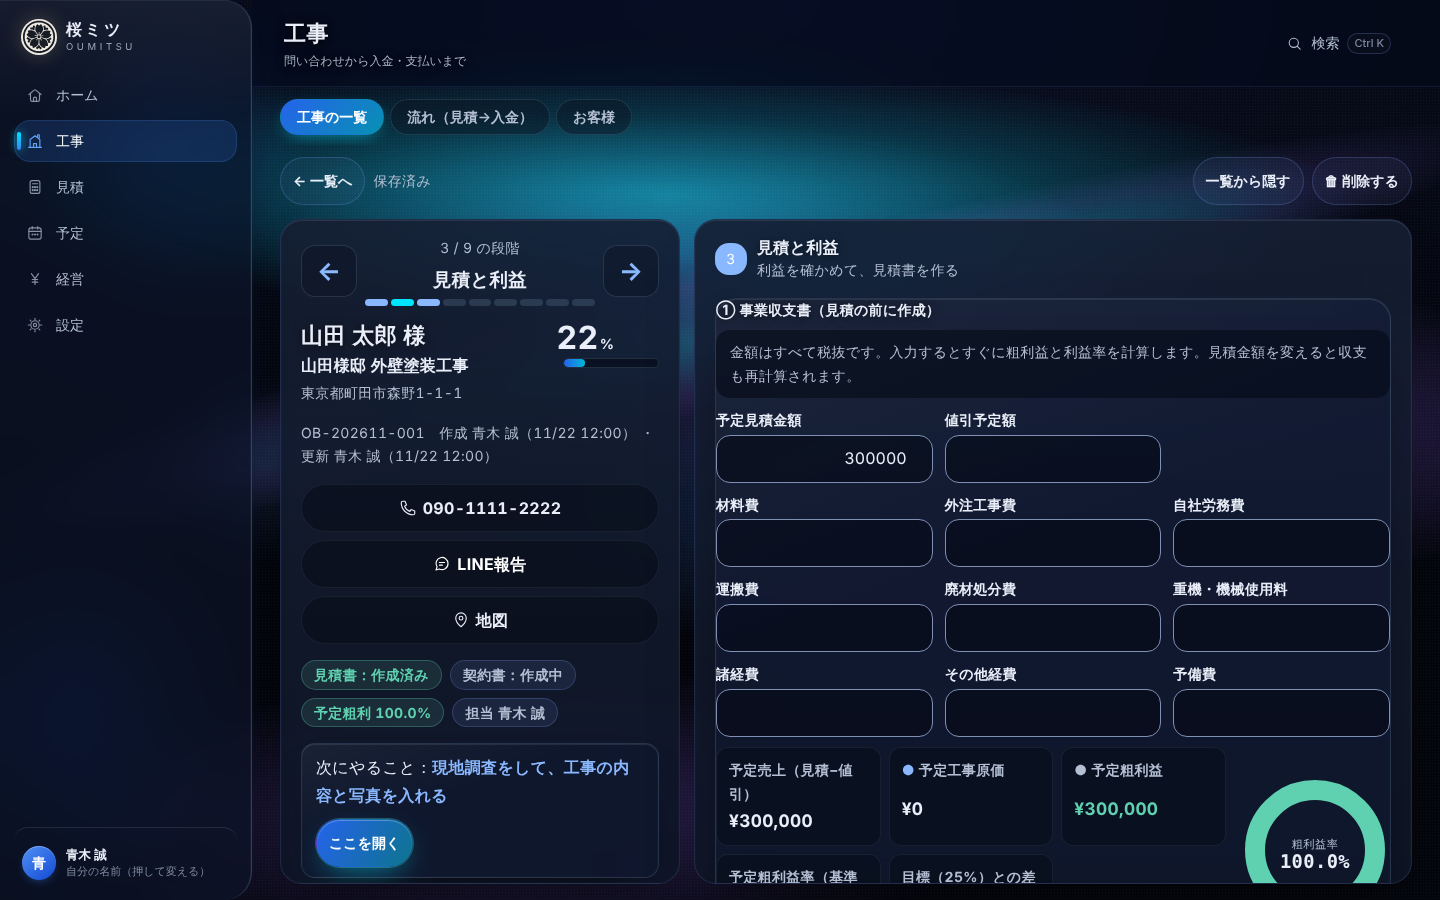
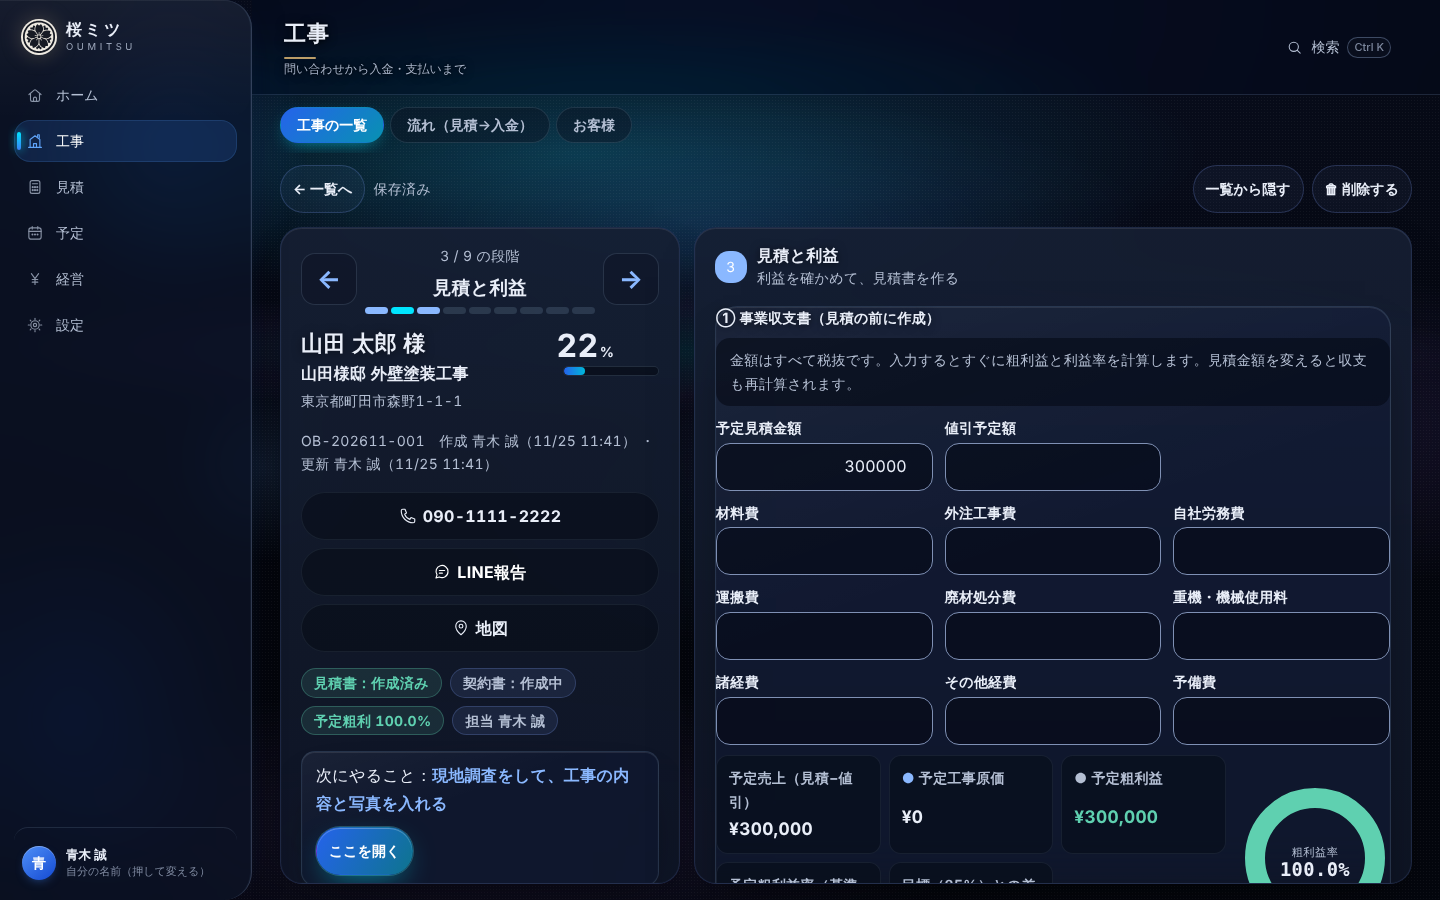
見た目を落ち着いた紺に（「桜ミツ 見せる用」を参考に）
- 背景の光を弱くして止める。線を少し濃くして面の境目をはっきり
- 主なボタンは青1色（虹色の流れ・光の影をやめる）。枠の中のボタンも同じ
- 画面の名前は明朝、下に金の短い線（会社の印）。高さは増やさず1画面に収めたまま

Claude-Session: https://claude.ai/code/session_011YfgaKNg5BLHuBJZ1Hhi4R

diff --git a/oubi/web.css b/oubi/web.css
@@ -238,3 +238,20 @@ body.ee-link .widgets.editing .widget { transition: transform .15s cubic-bezier(
 body.ee-link .widgets.editing .widget.dragging { opacity: .9; transform: scale(1.02); box-shadow: 0 24px 50px -20px rgba(0, 0, 0, .8), 0 0 0 1px rgba(0, 229, 255, .4); }
 /* ホーム：押せるパネル・タイルは、乗せると少し浮いて縁に淡い光、押すと沈む（コントロールセンターのタイル） */
 body.ee-link .launch-tile:active, body.ee-link .w-kpi:active, body.ee-link .w-item:active { transform: scale(.98); }
+
+/* ===== 落ち着いた紺（2026-11-25：「桜ミツ 見せる用」を参考に） =====
+   ・背景の光は弱くして止める（面がはっきり見え、画面が静かになる）
+   ・線は少し濃く（面の境目が分かる）。主なボタンは青1色（虹色の流れ・光の影はやめる）
+   ・画面の名前は明朝で、下に金の短い線（会社の印。色の飾りはここだけ） */
+body.ee-link .aurora i { opacity: .3 !important; animation: none !important; }
+body.ee-link { --line: rgba(163, 192, 235, .16); --line-hi: rgba(170, 200, 245, .32); }
+body.ee-link .btn.primary, body.ee-link .btn.primary:hover {
+  background: #2a63c9 !important; background-image: none !important; border-color: transparent !important;
+  box-shadow: 0 2px 10px rgba(42, 99, 201, .28) !important; color: #fff !important; }
+body.ee-link .btn.primary:hover { background: #3170dc !important; }
+body.ee-link .btn:hover { box-shadow: none; }
+body.ee-link #title { font-family: "Hiragino Mincho ProN", "Hiragino Mincho Pro", "Yu Mincho", "YuMincho", "Noto Serif JP", "Noto Serif CJK JP", serif; letter-spacing: .04em; }
+body.ee-link #title { position: relative; }
+body.ee-link #crumb { margin-top: 6px; }
+body.ee-link #title::after { content: ""; position: absolute; left: 0; bottom: -4px; width: 32px; height: 2px; border-radius: 2px; background: #bfa06a; }   /* 高さは増やさない（1画面に収める） */
+body.ee-link .launch-tile.lt-main { box-shadow: 0 0 0 1px rgba(77, 141, 255, .28) inset; border-color: rgba(77, 141, 255, .45); }

diff --git a/oubi/embed.css b/oubi/embed.css
@@ -161,3 +161,9 @@ button:active:not(:disabled), .btn:active, .chipbtn:active, .sl-mini:active { tr
 .done-t { white-space: nowrap; }
 nav button, nav .btn, .tabs button { overflow: visible !important; }
 }
+
+/* ===== 落ち着いた紺（2026-11-25：「桜ミツ 見せる用」を参考に）：主なボタンは青1色、押せる物の光の影はやめる ===== */
+.btn.pri, .btn.pri:hover, .launch-btn.new, .gate-go, .chipbtn.on, .subtabs button[aria-current="step"] {
+  background: #2a63c9 !important; background-image: none !important; box-shadow: 0 2px 10px rgba(42, 99, 201, .28) !important; color: #fff !important; }
+.btn.pri:hover { background: #3170dc !important; }
+.btn:hover, .chipbtn:hover { box-shadow: none !important; }
